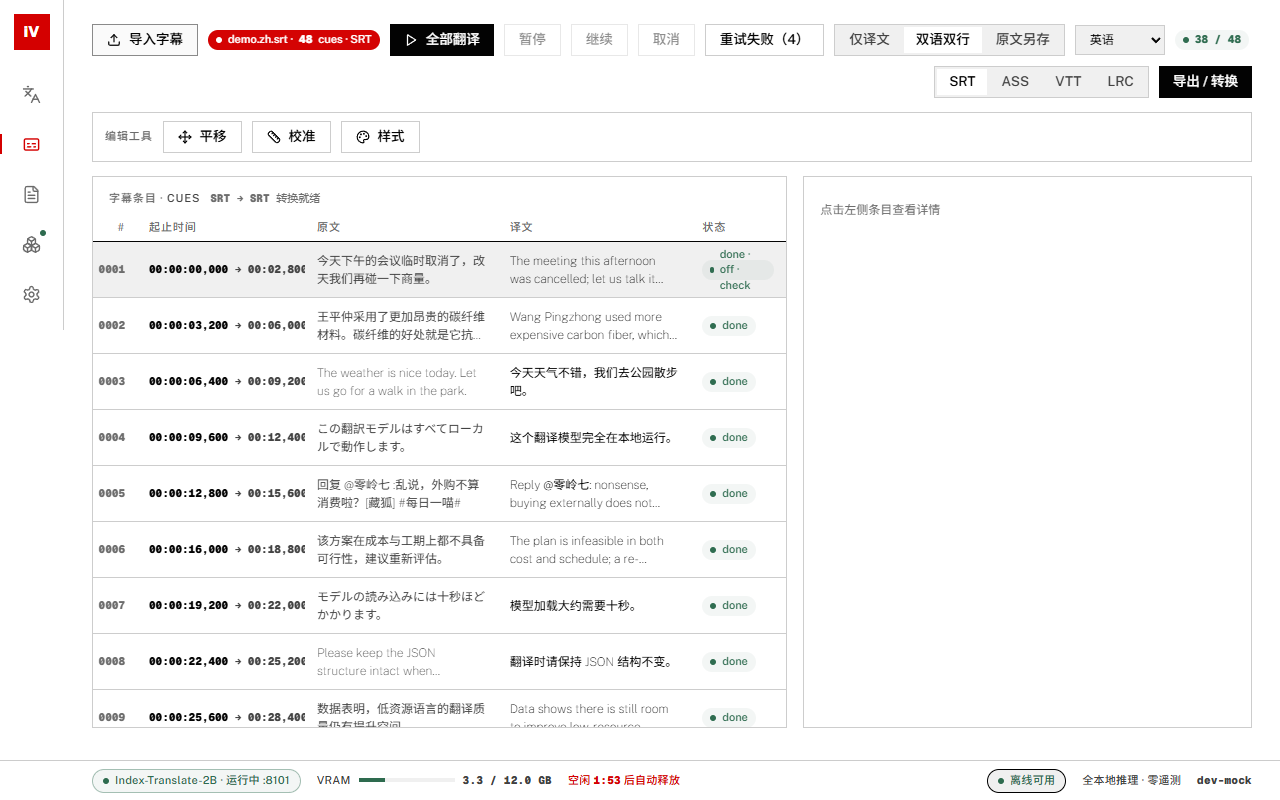
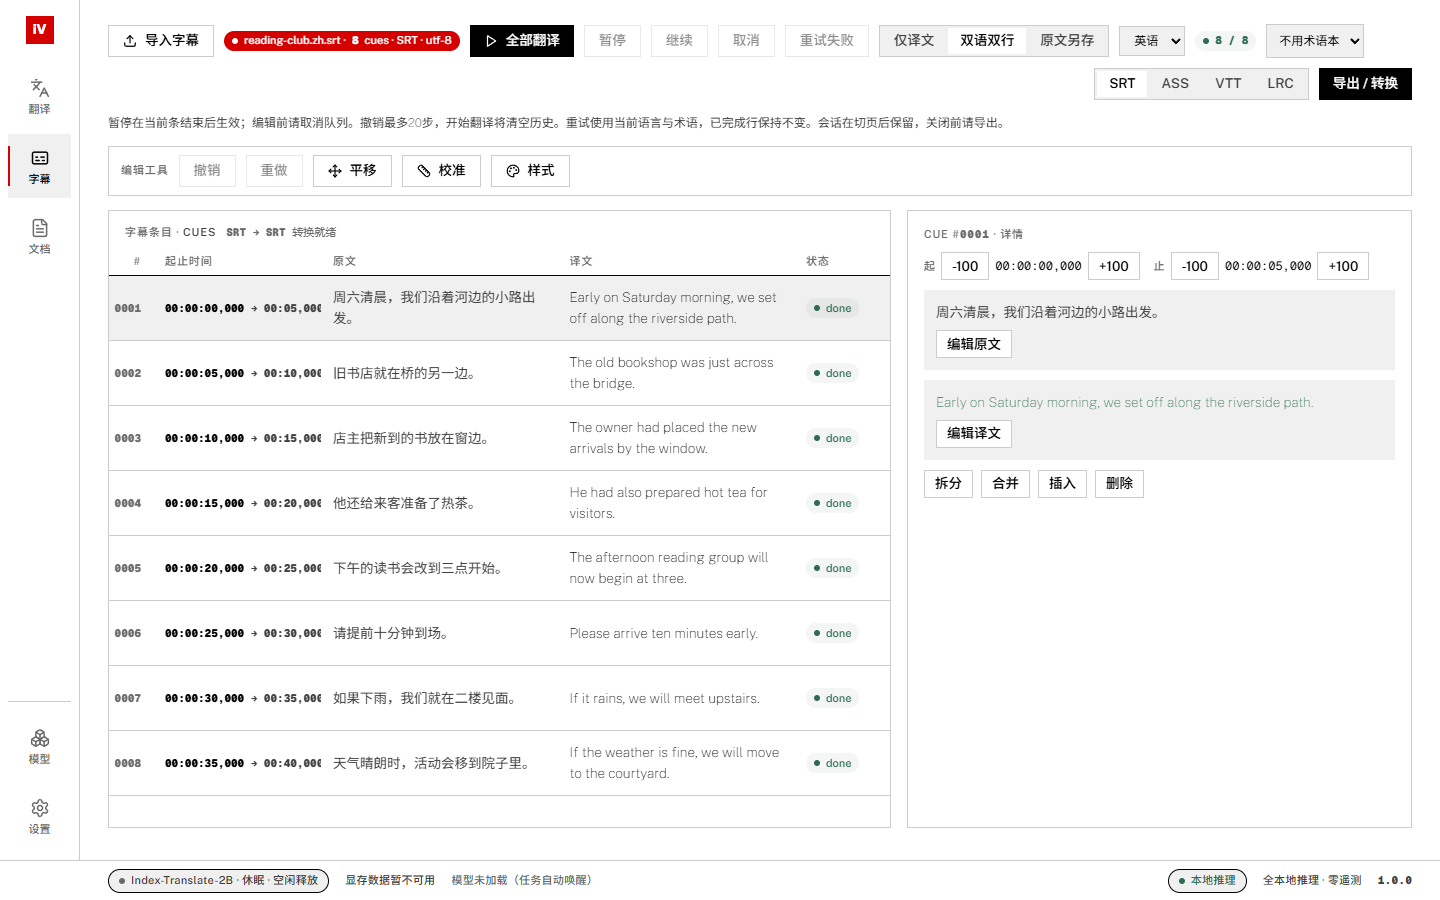
docs: refresh public preview screenshots and usage guidance

diff --git a/README.md b/README.md
@@ -4,15 +4,15 @@
 
 English · [简体中文](README.zh-CN.md)
 
-I built Index-VT to keep translation, terminology, and subtitle editing in one desktop workspace. It runs IndexTeam's translation models through a local `llama-server` process, so the text you translate stays on your computer. Once the engine and models are installed, translation works offline; model downloads require a network connection.
+I built Index-VT to bring text translation, terminology, and subtitle editing into one desktop application. It runs IndexTeam's models locally through `llama-server`. After installing the engine and models, you can translate offline without sending your text to a cloud translation service.
 
-Developed and maintained by **Osanai-Yuki**. This is an independent desktop application; the upstream models and inference engine belong to their respective authors.
+Developed and maintained by **Osanai-Yuki**. Index-VT is an independent project; the models and inference engine are developed by their respective upstream teams.
 
-> **Development preview.** The workflows below are implemented, but testing on real hardware is still in progress. The interface is primarily Simplified Chinese, with some English labels. These two README versions do not imply a fully localized English interface.
+> **Development preview.** Features are available for testing, with further hardware and workflow validation in progress. The application interface is primarily Simplified Chinese, with some English labels.
 
 ![Index-VT translation workspace](docs/assets/screenshots/translation-light.png)
 
-*Translation workspace, captured on 2026-10-17 with development demo data. Screenshots illustrate the interface; they are not translation-quality or performance benchmarks.*
+*Current interface, updated on 2026-10-19. The text and translations are public samples prepared for the screenshots. See the [capture notes](docs/assets/screenshots/README.md) for the build and rendering method.*
 
 ## What you can do
 
@@ -21,12 +21,12 @@ Developed and maintained by **Osanai-Yuki**. This is an independent desktop appl
 | Text translation | Streaming output, source/target language selection, built-in and custom translation presets, terminology hints, local history and favorites. |
 | Subtitles | Import SRT, ASS, VTT, and LRC; translate a queue; pause, cancel, and retry failures; edit text and timing; split/merge cues; shift/calibrate timing; undo/redo edits; export translated or bilingual subtitles. |
 | Long documents | Import TXT or Markdown, translate in chunks with Index-Nailong, continue an interrupted task during the same application session, inspect terminology matches, and export translation or bilingual text. |
-| Models and terminology | Download supported GGUF models, choose Q4_K_M or Q8_0, manage detected model files, and create/import/export glossary books using CSV or TSV. |
+| Models and terminology | Download supported GGUF models, choose Q4_K_M or Q8_0, and manage detected model files. Create and edit glossary books, import CSV/TSV, and export CSV. |
 | Desktop controls | Light/dark/system themes, inference settings, local diagnostics, startup model loading, and automatic model release after inactivity. |
 
 ![Index-VT subtitle workspace](docs/assets/screenshots/subtitles.png)
 
-*Subtitle workspace with demo cues. The built-in preview is intended for editing; check complex ASS effects in your target player.*
+*Eight Chinese-to-English sample cues, with the selected cue's timing and text controls open. The built-in preview is for editing; check complex ASS effects in your target player.*
 
 ## Getting started
 
@@ -35,11 +35,11 @@ Developed and maintained by **Osanai-Yuki**. This is an independent desktop appl
 - **Windows 10/11, x64**, with Microsoft Edge WebView2 Runtime. This project currently targets Windows only.
 - A compatible Windows build of **[llama.cpp](https://github.com/ggml-org/llama.cpp/releases)**, including `llama-server.exe` and the DLLs from that build.
 - At least one supported GGUF model. An NVIDIA GPU with a compatible CUDA runtime is optional; CPU inference is available but speed depends on your machine.
-- Enough disk space for the application, runtime, selected models, and local data. A Q4_K_M model is roughly 1.3 GB; Q8_0 is roughly 2.2 GB. These are model-file sizes, not RAM or VRAM requirements.
+- Disk space for the application, runtime, selected models, and local data. Each Q4_K_M model is roughly 1.3 GB and Q8_0 roughly 2.2 GB on disk; runtime memory usage depends on the model and context settings.
 
 ### Set up a portable folder
 
-If a release is available in this repository's **Releases** section, read its asset description first. An application-only archive does **not** contain the inference engine or models. GitHub's automatically generated source archives are source code, not a runnable Windows package.
+Check this repository's **Releases** section for downloadable builds and read the package description. An **app-only** archive needs the engine and models installed separately. GitHub's **Source code** archives are for building from source.
 
 Extract the application to a writable folder and arrange the runtime like this:
 
@@ -57,7 +57,7 @@ Index-VT/
 1. Start `Index-VT.exe` and follow the first-run setup.
 2. Download **Index-Translate-2B / Q4_K_M** as a starting point, or place an official supported model file in `models/` before startup.
 3. Open the translation workspace, choose a target language, and translate a short sample.
-4. Download Nailong or Homura only when you need their specialized workflows.
+4. Add Nailong for long documents or Homura for dubbing-oriented text when needed.
 
 Models and runtime binaries are excluded from the source repository. A fresh clone needs them too; cloning the project alone does not install the engine.
 
@@ -76,7 +76,7 @@ The model manager supports **Q4_K_M** and **Q8_0**. For manual installation, kee
 - **Text:** choose the languages and a preset, enter your text, then translate. `Ctrl+Enter` starts a translation; `Esc` cancels it.
 - **Subtitles:** import a file, choose a language and optional glossary, translate, inspect the result, then export. Cancel the active queue before editing. Undo history is limited to 20 steps and a memory budget; starting a new translation clears it.
 - **Documents:** import a TXT/MD file and select one of the supported directions. The current import limit is **2 MiB and 50,000 Unicode characters**. Export the result before closing the application.
-- **Glossaries:** manage books in the model/terminology workspace. Entries guide the model through the prompt; they are not guaranteed text replacements or a semantic consistency score.
+- **Glossaries:** manage books in the model/terminology workspace. Entries are passed to the model as translation hints. Review the result: term-match counts help locate passages, but do not establish semantic consistency.
 
 After setup, the saved default model loads at startup. With no active task, **30 minutes without input** starts a **30-second countdown** to release the model; interaction cancels the countdown, and a later task loads the model again.
 
@@ -90,7 +90,7 @@ The normal portable layout keeps data beside the executable:
 | `models/data/indexvt.db` | Local settings, text history, glossary books, and model records. |
 | `logs/` | Application/engine logs and diagnostic archives, if enabled. |
 
-The app sends inference requests to `127.0.0.1`; translation does not need a cloud API key. There is no application telemetry. Model downloads contact the configured model host. Logging is off by default; changing it requires a restart. Diagnostic files may contain local paths, so inspect them before sharing.
+Inference runs on `127.0.0.1`, without a cloud API key or application telemetry. Model downloads contact the selected model host. Logging is off by default, and changes to that setting take effect after restarting. Check diagnostic files for local paths and other information before sharing them.
 
 **Export subtitle and document work before exiting.** Switching pages preserves the current session, but those workspaces do not automatically restore unfinished work after a full application restart. Back up the portable folder with the application closed if you want to retain models, settings, history, and glossaries. Development builds can resolve their data folder above the executable; see the [development guide](docs/DEVELOPMENT.md).
 
@@ -108,13 +108,13 @@ node scripts/build.mjs
 
 The executable is written to `app/build/bin/Index-VT.exe`. Add the runtime/model files as described above to use it.
 
-**Use the build script for a production build.** It builds the frontend, copies it into Go's embed directory, and then builds the executable. A direct `wails build` does not perform that synchronization in this repository and can embed an older interface.
+**Build production releases with this script.** It builds the frontend, synchronizes Go's embed directory, then compiles the executable. Running `wails build` directly can leave an older interface embedded in the application.
 
 For local development, test commands, and browser demos, see [DEVELOPMENT.md](docs/DEVELOPMENT.md).
 
 ## Current limitations
 
-I am still validating real Windows workflows and translation quality across representative material. Browser checks with demo data do not establish model quality or complete native-dialog coverage.
+I am continuing to test native Windows workflows and translation quality on representative material. Browser tests cover interface behavior; real model inference, native dialogs, and hardware compatibility need separate checks.
 
 - Translation can omit, distort, or invent content. Check important output against the source; terminology-match counts are review hints.
 - Full restart recovery is not available for subtitle/document sessions. A document continuation uses the original task's direction and terminology.
@@ -122,11 +122,11 @@ I am still validating real Windows workflows and translation quality across repr
 - Homura's syllable count and the displayed GPU-memory estimates are approximate; neither is a hardware or output guarantee.
 - Real IME input, unusual display scaling, interrupted downloads, low disk space, CPU performance, and driver/OOM recovery still need broader acceptance testing.
 
-Existing engineering records are indexed in [docs/README.md](docs/README.md). They are dated evidence, not a promise that every scenario has passed on every machine.
+Dated test results and engineering notes are indexed in [docs/README.md](docs/README.md), with the scope and limitations of each check recorded alongside the results.
 
 ## Feedback
 
-When reporting a problem, include the application version (`Index-VT.exe -version`), Windows version, GPU/CPU, model and quantization, selected context size, and the steps to reproduce. A small input you are comfortable sharing is more useful than an entire private document. Attach logs only after checking their contents.
+To report a problem, include the application version (`Index-VT.exe -version`), Windows version, GPU/CPU, model and quantization, context size, and steps to reproduce. Include a small sample you can share publicly, and review any logs before attaching them.
 
 ## Copyright and licensing
 

diff --git a/README.zh-CN.md b/README.zh-CN.md
@@ -4,15 +4,15 @@
 
 [English](README.md) · 简体中文
 
-我开发 Index-VT，是想把翻译、术语管理和字幕编辑放进同一个桌面工作区。应用通过本机的 `llama-server` 运行 IndexTeam 翻译模型，待翻译文本留在自己的电脑上。准备好引擎和模型后，翻译无需联网；模型下载需要网络。
+我开发 Index-VT，是想在一个桌面应用里完成文本翻译、术语管理和字幕编辑。应用通过 `llama-server` 在本机运行 IndexTeam 模型。安装好引擎和模型后，就能离线翻译，无需将文本上传到云端翻译服务。
 
-开发与维护：**Osanai-Yuki**。这是独立开发的桌面应用，所使用的上游模型和推理引擎归各自作者所有。
+开发与维护：**Osanai-Yuki**。Index-VT 是独立项目，模型和推理引擎由各自的上游团队开发。
 
-> **当前为开发预览阶段。** 下列工作流已经实现，但真实硬件与 Windows 操作场景仍在验收。界面以简体中文为主，带部分英文标签；中英文 README 不代表已经提供完整的英文界面。
+> **当前为开发预览版。** 已有功能可供试用，硬件适配和 Windows 工作流仍在继续验收。应用界面以简体中文为主，带部分英文标签。
 
 ![Index-VT 主翻译台](docs/assets/screenshots/translation-light.png)
 
-*主翻译台截图，摄于 2026-10-17，使用开发演示数据。截图用于展示界面，不代表真实模型的翻译质量或性能测试结果。*
+*当前界面，更新于 2026-10-19。原文和译文均为专门准备的公开示例，用于展示操作界面；构建来源和截图方式见[截图说明](docs/assets/screenshots/README.md)。*
 
 ## 可以做什么
 
@@ -21,12 +21,12 @@
 | 文本翻译 | 流式输出、源语言与目标语言选择、内置和自定义翻译模式、术语提示、本地历史与收藏。 |
 | 字幕工作台 | 导入 SRT、ASS、VTT、LRC；队列翻译、暂停、取消和失败重试；编辑文本与时间；拆分、合并、平移与校准；撤销/重做；导出译文或双语字幕。 |
 | 长文档 | 导入 TXT 或 Markdown，以 Index-Nailong 分块翻译；同一次应用会话内继续中断任务；检查术语命中；导出译文或双语对照。 |
-| 模型与术语 | 下载受支持的 GGUF 模型，选择 Q4_K_M 或 Q8_0，管理识别出的模型文件；新建、导入、导出 CSV/TSV 术语本。 |
+| 模型与术语 | 下载受支持的 GGUF 模型，选择 Q4_K_M 或 Q8_0，管理识别出的模型文件；新建、编辑术语本，导入 CSV/TSV，导出 CSV。 |
 | 桌面设置 | 浅色、深色与跟随系统主题；推理参数；本地诊断；启动加载默认模型；空闲后释放模型。 |
 
 ![Index-VT 字幕工作台](docs/assets/screenshots/subtitles.png)
 
-*字幕工作台使用演示字幕。内置预览用于编辑，复杂 ASS 效果请在实际使用的播放器中检查。*
+*八条中文到英文的示例字幕，右侧为所选条目的时间和文本编辑控件。内置预览用于编辑，复杂 ASS 效果请在实际使用的播放器中检查。*
 
 ## 开始使用
 
@@ -35,11 +35,11 @@
 - **Windows 10/11，x64**，并安装 Microsoft Edge WebView2 Runtime。目前只面向 Windows。
 - 可兼容的 **[llama.cpp Windows 发行包](https://github.com/ggml-org/llama.cpp/releases)**，包括 `llama-server.exe` 及同一构建附带的 DLL。
 - 至少一个受支持的 GGUF 模型。NVIDIA GPU 和对应 CUDA 运行环境为可选项；可以使用 CPU，速度取决于硬件。
-- 为应用、引擎、模型和本地数据预留空间。单个 Q4_K_M 模型约 1.3 GB，Q8_0 约 2.2 GB；这是模型文件大小，不是运行内存或显存要求。
+- 为应用、引擎、模型和本地数据预留磁盘空间。单个 Q4_K_M 模型约 1.3 GB，Q8_0 约 2.2 GB；运行时的内存和显存占用还取决于模型与上下文设置。
 
 ### 准备便携目录
 
-如果本仓库的 **Releases** 中已有发行版，请先阅读附件说明。仅应用包不含推理引擎或模型；GitHub 自动生成的源码压缩包也不是可直接运行的 Windows 安装包。
+在仓库的 **Releases** 中查看可下载的版本和附件说明。标有 **app-only** 的包需要另行安装引擎和模型；**Source code** 压缩包用于从源码构建。
 
 将应用解压到可写目录，按下面的结构放置引擎：
 
@@ -57,7 +57,7 @@ Index-VT/
 1. 打开 `Index-VT.exe`，按首次引导准备环境。
 2. 建议先下载 **Index-Translate-2B / Q4_K_M**；也可以在启动前把受支持的官方模型文件放入 `models/`。
 3. 在主翻译台选择目标语言，用一小段文本确认环境可用。
-4. 需要长文档或配音文本约束时，再下载 Nailong 或 Homura。
+4. 需要长文档翻译时添加 Nailong，需要配音文本约束时添加 Homura。
 
 源码仓库不包含模型和引擎二进制。自行克隆项目也需要补齐这些文件。
 
@@ -76,7 +76,7 @@ Index-VT/
 - **文本：**选择语言和模式后翻译；`Ctrl+Enter` 开始，`Esc` 取消。
 - **字幕：**导入文件、选择语言和可选术语本，翻译后检查并导出。编辑前先取消活动队列。撤销历史最多 20 步，并受内存预算限制；开始新一轮翻译会清空撤销历史。
 - **文档：**导入 TXT/MD，选择受支持的方向。当前导入上限为 **2 MiB 且不超过 50,000 个 Unicode 字符**。关闭应用前导出结果。
-- **术语：**在模型与术语工作区维护术语本。术语通过提示影响模型，不是机械替换；命中计数也不等于语义一致性评分。
+- **术语：**在模型与术语工作区维护术语本。词条会作为翻译提示传给模型，结果仍需检查；命中计数可以帮助定位段落，但不能判断语义是否一致。
 
 完成引导后，应用在启动时加载保存的默认模型。没有活动任务且 **30 分钟无操作**时，会提示 **30 秒倒计时**后释放模型；继续操作会取消倒计时，后续翻译会重新加载模型。
 
@@ -90,7 +90,7 @@ Index-VT/
 | `models/data/indexvt.db` | 设置、文本历史、术语本和模型登记信息。 |
 | `logs/` | 启用日志后生成的应用日志、引擎日志及诊断包。 |
 
-应用向 `127.0.0.1` 发起推理请求，翻译不需要云端 API Key，没有应用遥测。模型下载会访问所选模型托管站点。日志默认关闭，修改日志开关后需重启；诊断信息可能包含本机路径，分享前请检查内容。
+推理在 `127.0.0.1` 上运行，无需云端 API Key，也没有应用遥测。下载模型时会连接所选托管站点。日志默认关闭，修改开关后重启生效；分享诊断文件前，请检查其中的本机路径和其他信息。
 
 **退出前请导出字幕和文档。** 切换页面会保留本次会话，但应用完全关闭后，字幕和文档工作区不会自动恢复未完成内容。备份时先关闭应用，再复制整个便携目录，以保留模型、设置、历史和术语本。开发环境可能使用可执行文件上层的资源目录，详见[开发指南](docs/DEVELOPMENT.md)。
 
@@ -108,13 +108,13 @@ node scripts/build.mjs
 
 输出为 `app/build/bin/Index-VT.exe`，运行前按前文补齐引擎和模型。
 
-**生产构建请使用脚本。** 它先构建前端，再同步到 Go 的嵌入目录，最后编译应用。当前项目直接执行 `wails build` 不会完成这次同步，可能把旧界面编进新程序。
+**生产构建请使用这个脚本。** 它依次构建前端、同步 Go 的嵌入目录，再编译应用。直接执行 `wails build` 可能让程序继续使用旧界面。
 
 热更新、测试命令和浏览器演示见 [DEVELOPMENT.md](docs/DEVELOPMENT.md)。
 
 ## 当前限制
 
-我仍在补充真实 Windows 工作流与代表性材料的翻译质量验收。浏览器演示测试不能替代真实模型和原生对话框验证。
+我仍在用代表性材料检查翻译质量，并继续验收 Windows 原生工作流。浏览器测试覆盖界面行为，真实模型、原生对话框和硬件适配还需分别验证。
 
 - 模型可能漏译、误译或增添内容，重要译文请对照原文检查；术语命中只提供审阅线索。
 - 字幕和文档不支持跨应用重启恢复。文档续跑沿用任务开始时的方向与术语。
@@ -122,11 +122,11 @@ node scripts/build.mjs
 - Homura 音节数和界面中的显存估算均为近似值，不是输出或硬件适配保证。
 - 真实输入法、特殊缩放、下载中断、磁盘不足、CPU 性能和驱动/OOM 恢复仍需更广泛验收。
 
-既有工程记录见[文档索引](docs/README.md)。这些是注明日期的验证资料，不代表所有场景都已在所有机器通过。
+测试结果和工程记录见[文档索引](docs/README.md)，各项检查都注明了日期、验证范围和限制。
 
 ## 反馈问题
 
-请提供应用版本（`Index-VT.exe -version`）、Windows 版本、GPU/CPU、模型与量化档位、上下文大小，以及复现步骤。可以公开的一小段样例比整份私人文档更便于定位；附日志前先检查其中的信息。
+反馈时请附上应用版本（`Index-VT.exe -version`）、Windows 版本、GPU/CPU、模型与量化档位、上下文大小和复现步骤。样例只需提供可以公开的一小段，日志也请检查后再上传。
 
 ## 版权与许可
 

diff --git a/docs/assets/screenshots/README.md b/docs/assets/screenshots/README.md
@@ -1,12 +1,28 @@
 # README screenshots
 
-These are copies of existing development review screenshots from 2026-10-17. They display demo data from the browser mock backend, not live model inference. The interface and labels may change in later builds.
+Updated on **2026-10-19**. Both public documentation images have been regenerated from the production frontend currently embedded in `app/build/bin/Index-VT.exe`. The capture checks that every JS, CSS, and font asset is present byte-for-byte in that executable before rendering it in Chromium.
 
-| Published asset | Original review file |
+| Published asset | Content |
 | --- | --- |
-| `translation-light.png` | `docs/review-2026-10-17/translate-1680-light.png` |
-| `subtitles.png` | `docs/review-2026-10-17/subtitle-loaded.png` |
+| `translation-light.png` | Chinese source text and English translation, with the corresponding sample history item selected. |
+| `subtitles.png` | Eight Chinese-to-English subtitle cues, all completed, with the first cue's detail panel open. |
 
-The original files remain in place as review evidence. Both README languages share these two public assets. Replace them together after a deliberate screenshot refresh, and update their captions/date. Do not use private documents or user history in public screenshots.
+The images show the current production interface, rendered at **1440 × 900** in the light theme. They are browser renders of the embedded application frontend, rather than captures of the native Windows window. The native window could not be captured reliably in this execution environment.
+
+All source text, translations, history, subtitle rows, and status values come from an isolated screenshot fixture. The translations are predefined examples; no model inference or hardware measurements are represented. GPU memory figures and inference-speed figures are omitted. No existing user database, glossary, or document is used by this rendering fixture.
+
+The previous 2026-10-17 images remain in their dated review directory as historical evidence. They are no longer used by either README. Both language versions share the two refreshed assets above.
+
+## Reproduce
+
+With the current exe and its matching `app/frontenddist/` available, run from the repository root:
+
+```powershell
+node scripts/capture-readme.mjs
+```
+
+The helper requires the installed frontend Playwright dependency and system Chrome. It serves the embedded frontend locally, blocks external browser requests, loads the public fixture, and replaces the two images. It does not start the inference engine or access runtime user data. Update both README captions when refreshing them on a later date.
+
+[capture.json](capture.json) records the source commit, executable hash, embedded asset hashes, sample text, render method, image dimensions, and image hashes for this capture. It documents visual provenance, not end-to-end native application validation.
 
 Original Index-VT interface work: Copyright (c) 2026 Osanai-Yuki. Fonts, icons, and any included third-party material retain their own terms; see the root third-party notices.

diff --git a/docs/DEVELOPMENT.md b/docs/DEVELOPMENT.md
@@ -88,6 +88,8 @@ Open the following URLs in a browser while that server is running:
 
 The mock backend is a development tool. Its successful responses, apparent GPU usage, and sample translations are not evidence of real model behavior. A plain browser session without `?mock` has no Go backend.
 
+To refresh the public README images, run `node scripts/capture-readme.mjs` with a built exe and matching `app/frontenddist/`. This renders the exact embedded production frontend with an isolated public sample fixture. It does not use the development mock page or run model inference. See the [capture notes](assets/screenshots/README.md) for provenance and requirements.
+
 ## Verification
 
 Run the relevant existing checks after a code change:

diff --git a/docs/RELEASING.zh-CN.md b/docs/RELEASING.zh-CN.md
@@ -2,7 +2,7 @@
 
 [项目介绍](../README.zh-CN.md) · [开发指南](DEVELOPMENT.md) · [协议选择](LICENSING.zh-CN.md)
 
-本指南按个人维护的 Windows x64 项目编写。当前仓库尚未配置远程地址，本轮只准备本地文档和 Release notes 配置，没有创建标签、推送、上传附件或发布 Release。
+本指南用于发布 Windows x64 版本。源码仓库为 `Osanai-Yuki/Index-VT`，当前主分支为 `main`。下面的命令和步骤供维护者执行，文档更新本身不会创建标签、上传附件或发布 Release。
 
 ## 首发建议
 
